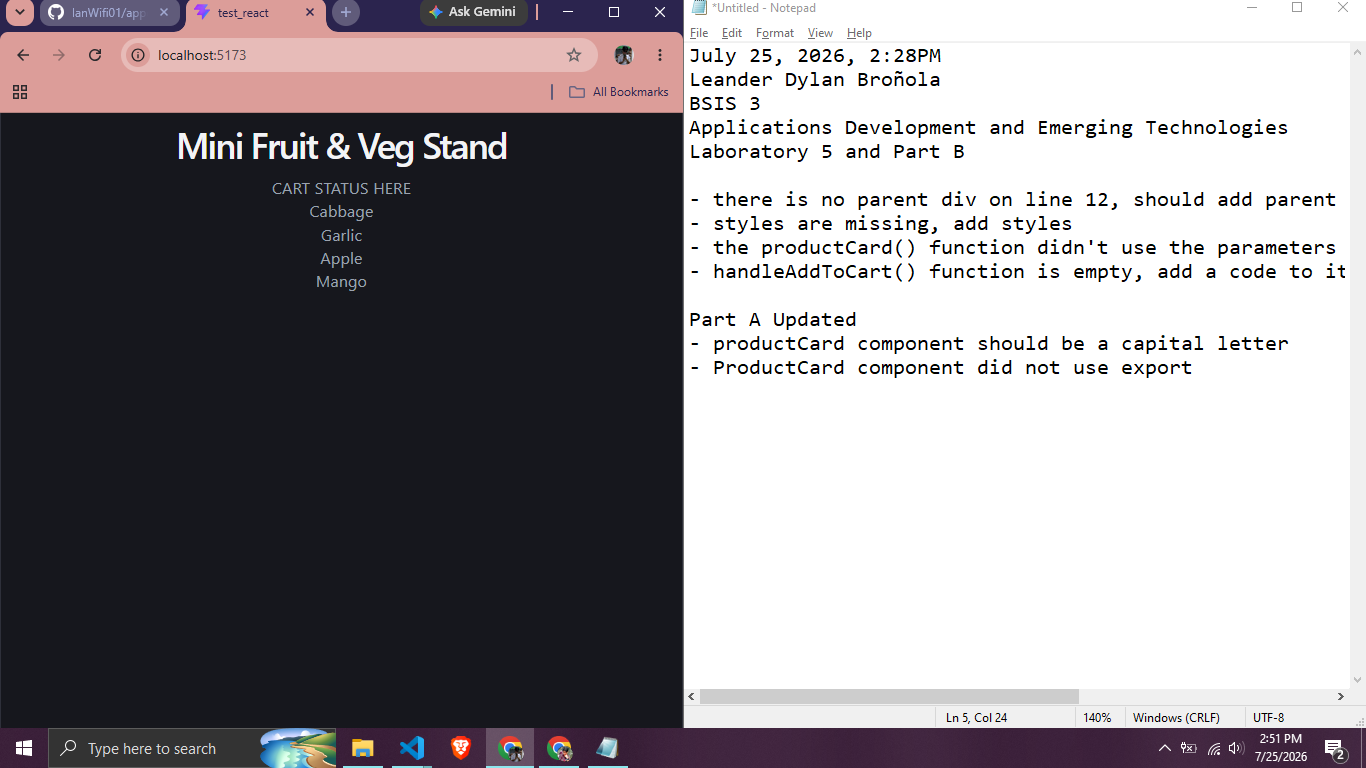
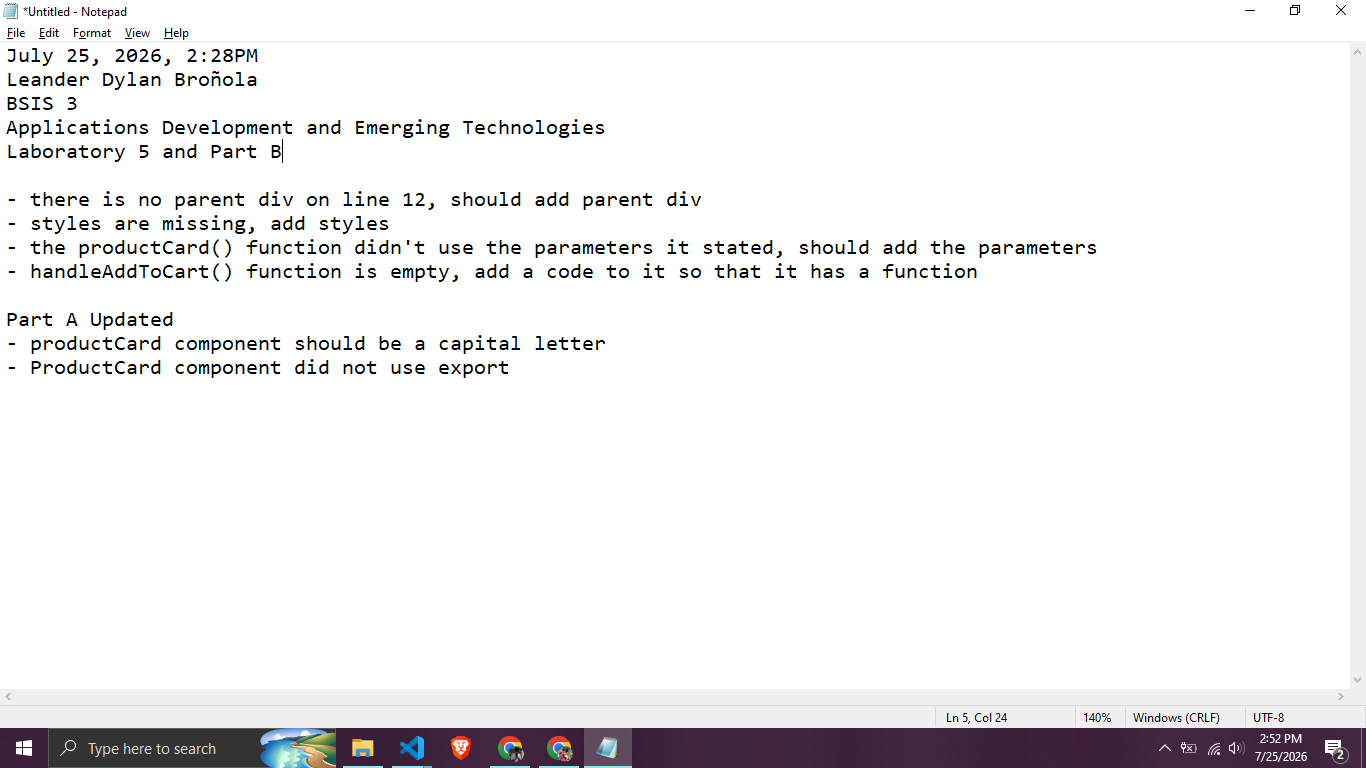
Finished trying part b

diff --git a/L05_react-quickstart-minishop/ShopApp.jsx b/L05_react-quickstart-minishop/ShopApp.jsx
@@ -25,27 +25,38 @@ export function ProductCard({ product, onAddToCart }) {
                     (product.popular) && <span>⭐ Popular</span>
                 }
 
-                <button>Add to Cart</button>
+                <button onClick={onAddToCart}>Add to Cart</button>
             </div>
         </>
     );
 }
 
 export default function ShopApp() {
-
+    const [cartCount, setCartCount] = useState(0);
     function handleAddToCart() {
-
+        setCartCount(prev => prev+=1)
+    }
+    function resetCart() {
+        setCartCount(prev => prev = 0)
     }
 
     return (
         <div className="shop">
             <h1>Mini Fruit & Veg Stand</h1>
-
-            <p>CART STATUS HERE</p>
+            {(cartCount) ? 
+                <p>Number of items in cart: {cartCount}</p>
+                : 
+                <p>No items in cart</p>
+            }
+            <button onClick={resetCart}>Reset Cart</button>
 
             <div className="product-list">
-                {products.map(product => 
-                    <li>{product.title}</li>
+                {products.map(product =>
+                    <ProductCard
+                        key={product.id}
+                        product={product}
+                        onAddToCart={handleAddToCart}
+                    />
                 )}
             </div>
         </div>
